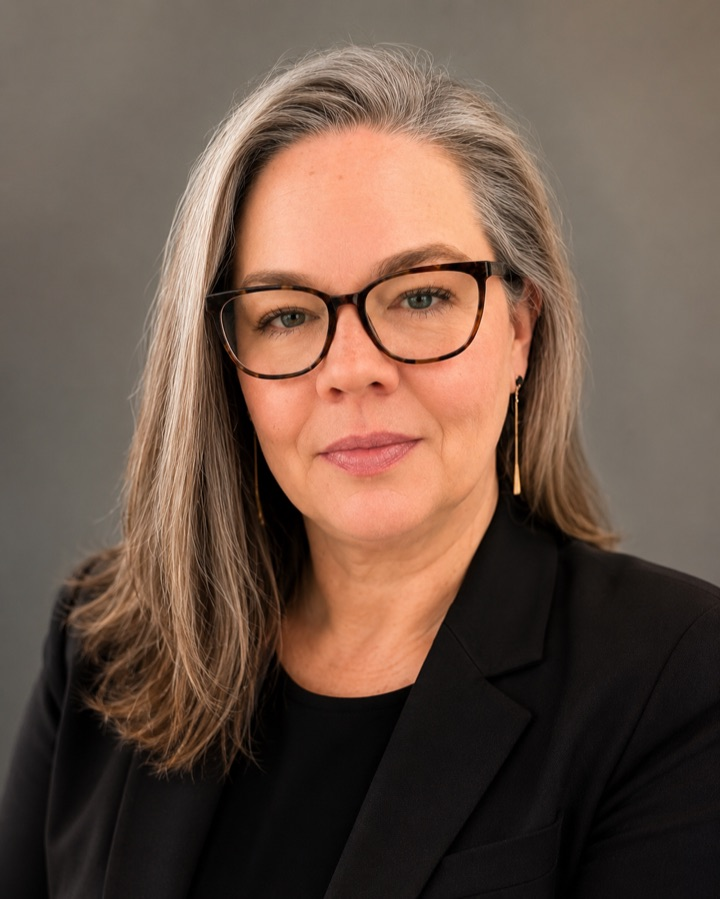
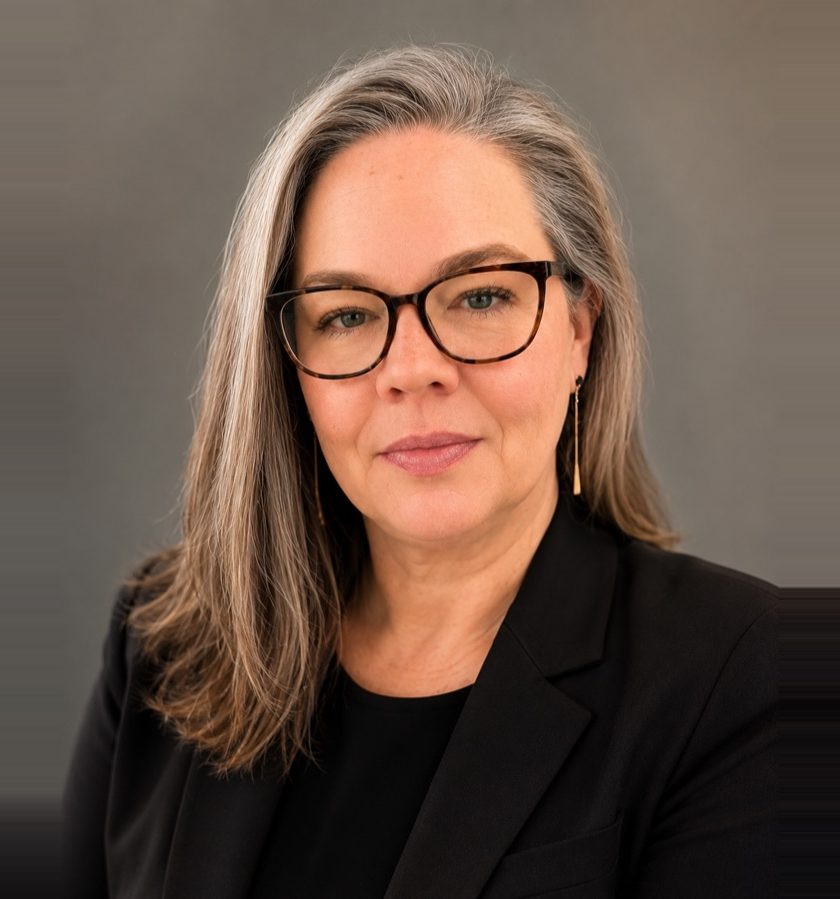
New theme "Bold Ideas, Lasting Change"; zoom out Lynn Cross headshot
- Replace placeholder theme with "Bold Ideas, Lasting Change", spanning all
  speakers' topics without centering on any one audience
- Pad Lynn Cross headshot sides (edge-replicated, seamless) so the card crop
  frames her wider

Changed region(s): [[0.0, 0.0623, 1.0, 0.9655], [0.0611, 0.9032, 0.1833, 1.0], [0.2444, 0.9655, 0.275, 0.9967]]

diff --git a/src/data/event.ts b/src/data/event.ts
@@ -22,11 +22,11 @@ export const EVENT = {
   capacity: 100,
   // THEME — placeholder. Replace once the final theme is chosen.
   theme: {
-    name: 'Small Steps, Big Impact',
+    name: 'Bold Ideas, Lasting Change',
     // The part of the name rendered in red (leave '' for none).
-    accent: 'Big Impact',
+    accent: 'Lasting Change',
     blurb:
-      'Change rarely happens all at once. Our theme celebrates the small, persistent actions that unlock outsized outcomes — in our schools, neighborhoods, and the wider world. Speakers will share ideas and stories that show how momentum starts with a single step.',
+      'The ideas that reshape a life rarely shout — they take root and hold. Our speakers explore what it takes to stand apart, protect what matters, build real trust, and turn conviction into impact that outlasts the moment. From differentiation and financial know-how to preserving endangered cultures and strengthening the bonds closest to home, these are ideas built to endure.',
   },
   venue: {
     name: 'Homestead High School',